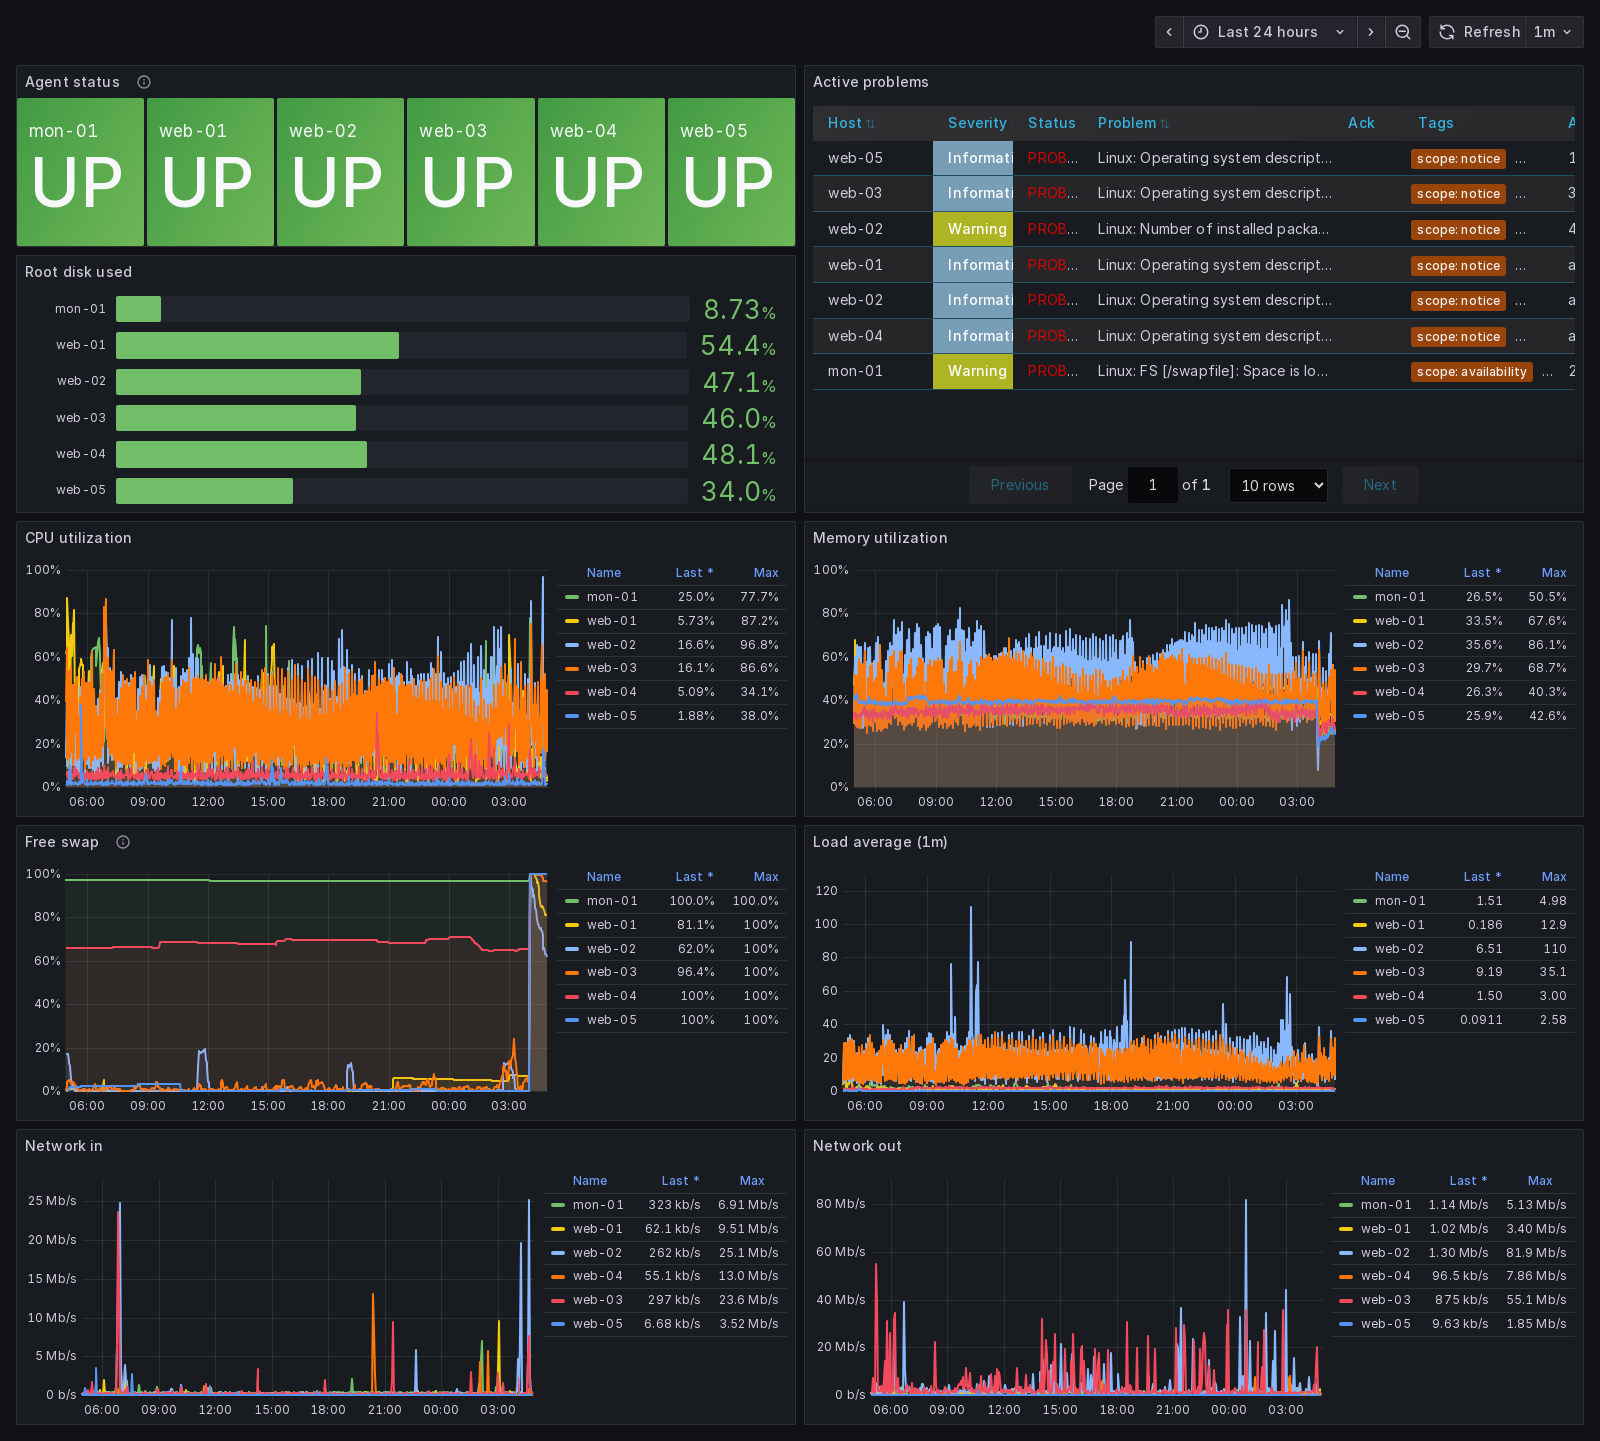
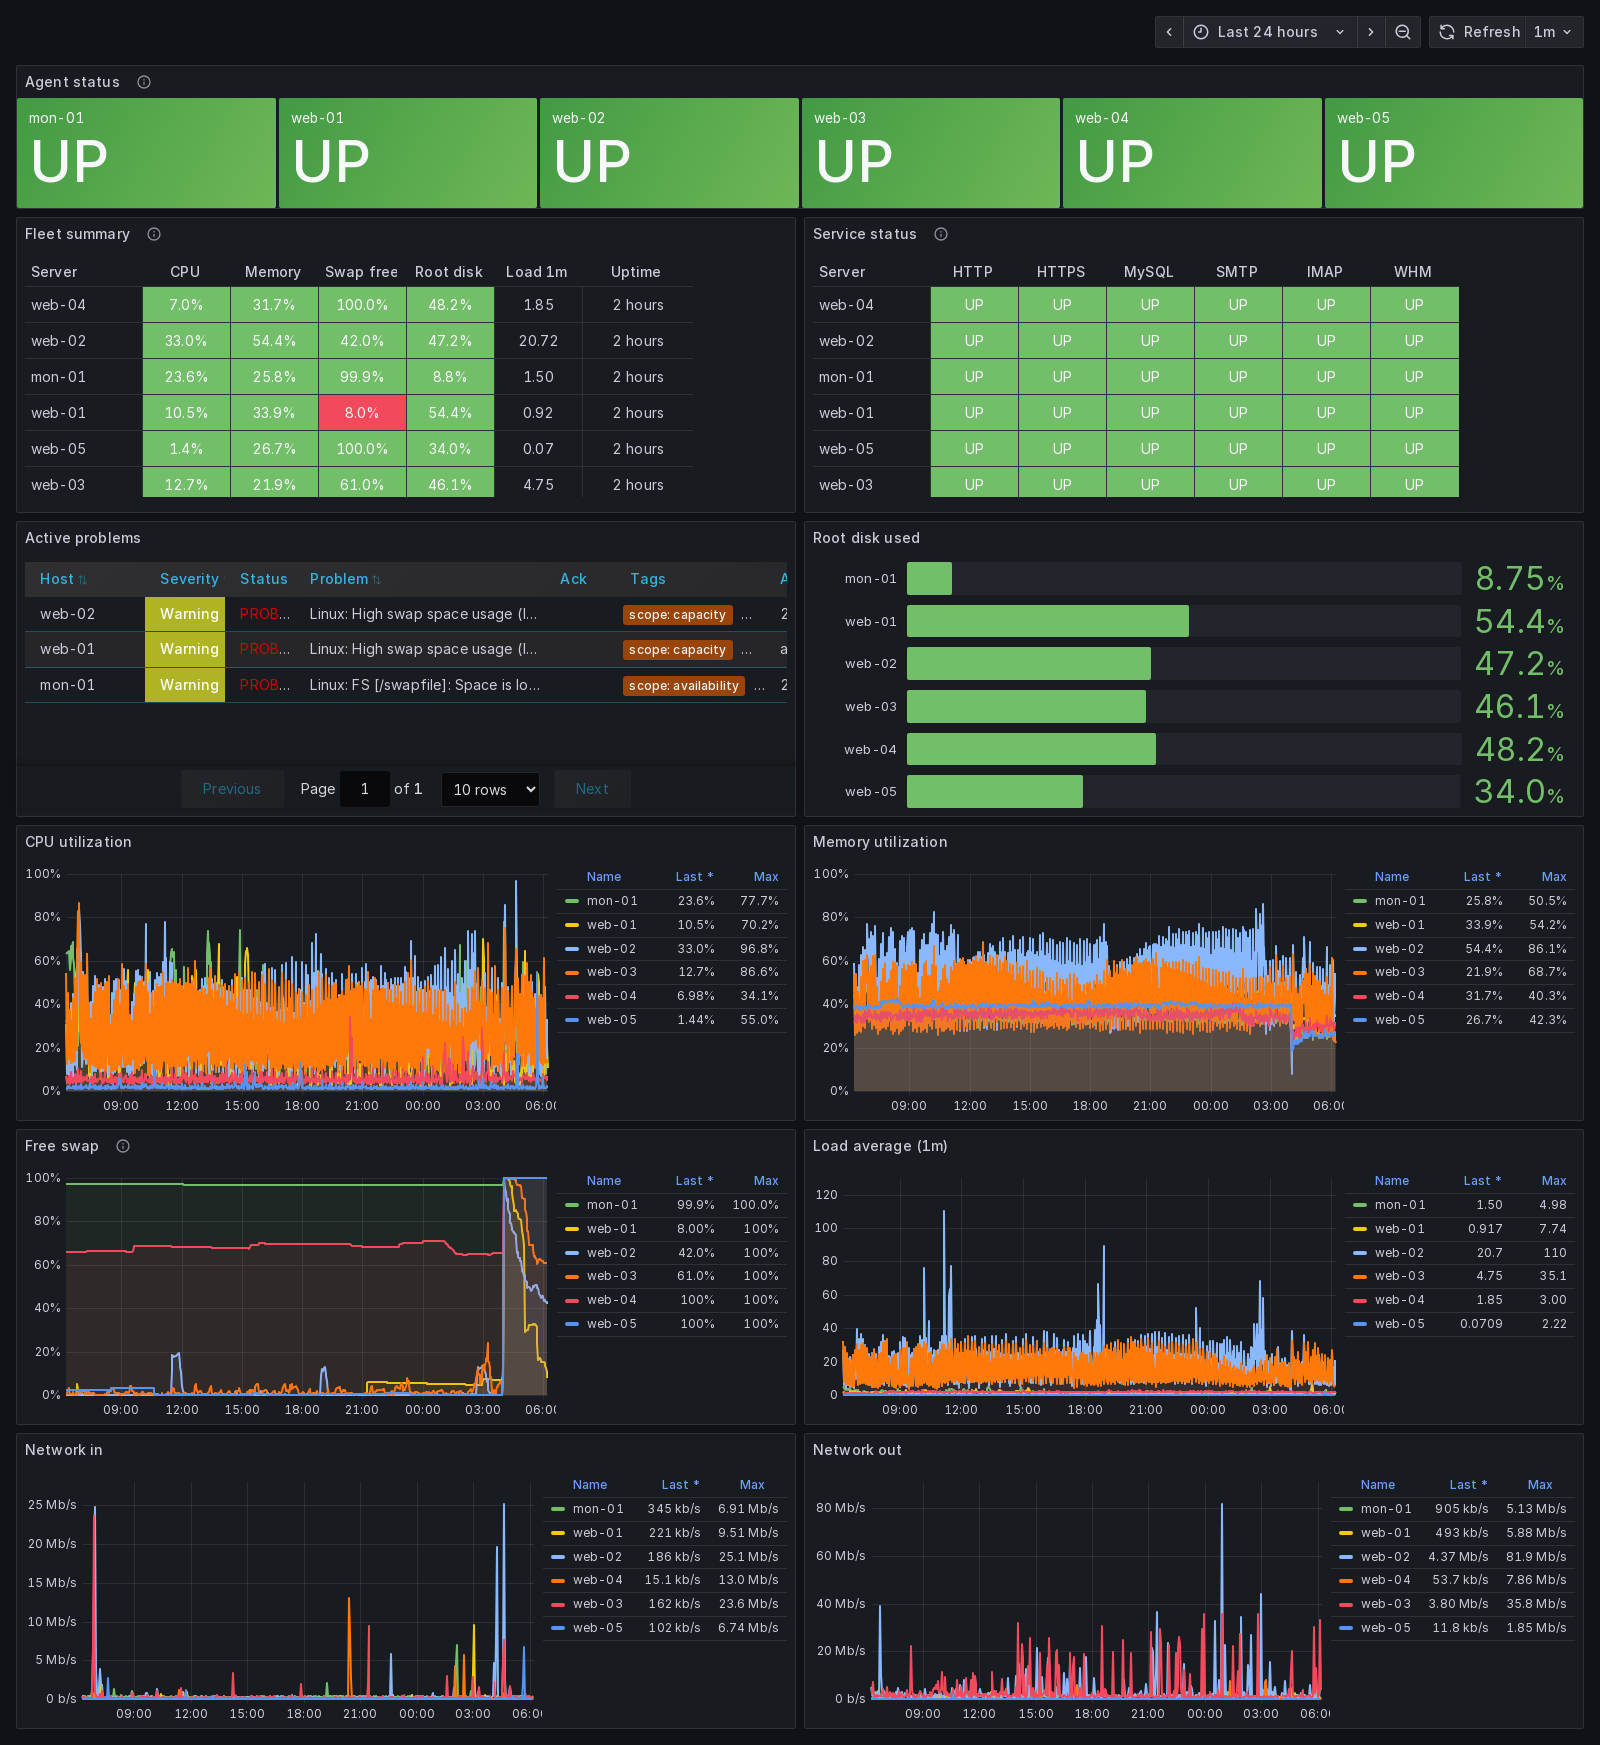
README: service checks, fleet summary, alert tuning, reboot resilience; new screenshots

diff --git a/README.md b/README.md
@@ -5,7 +5,7 @@ Production monitoring for a **fleet of 6 Linux web servers** (cPanel, about 1,00
 Designed and rolled out on a live production fleet in November 2026. Every server has reported continuously since.
 
 ![Grafana Fleet Overview: live data from all 6 production servers](docs/images/grafana-fleet.png)
-<sub>Grafana "Fleet Overview" over the last 24 hours: agent status, root disk, active problems, CPU, memory, swap, load and network for all 6 servers. Server names are anonymized.</sub>
+<sub>Grafana "Fleet Overview": agent status, a <b>fleet summary</b> table (CPU, memory, swap, disk, load, uptime per server), <b>service status</b> (web, HTTPS, MySQL, SMTP, IMAP, WHM), active problems and 24-hour trends. Server names are anonymized.</sub>
 
 ---
 
@@ -16,6 +16,7 @@ Designed and rolled out on a live production fleet in November 2026. Every serve
 | **Monitored servers** | 6 production servers, a mixed fleet: AlmaLinux 8, 9, 10 and CloudLinux 7, 9 |
 | **Stack** | Zabbix 7.0 LTS server + web, PostgreSQL 16, Grafana 12 with the Zabbix plugin, Podman |
 | **Agents** | Zabbix agent2 (EL8+) or classic agent (EL7), **active mode**, **TLS-PSK encrypted** |
+| **Service checks** | Web (80/443), MySQL, SMTP, IMAP, WHM on every server, every minute. DOWN for 3 minutes raises a problem (High/Average/Warning by service) |
 | **Onboarding** | Auto-registration: a new server joins the "Fleet" group with the Linux template, no clicking needed |
 | **Exposure** | None. The UIs listen on `127.0.0.1` only, behind an SSH tunnel. Port 10051 is allowlisted per agent IP |
 | **Footprint (measured)** | Agent ~18–36 MB RAM and ~0.2% CPU per server. The whole monitoring stack uses ~0.7 GB RAM |
@@ -61,6 +62,14 @@ flowchart LR
 - **Least privilege.** Grafana reads Zabbix through a **read-only API user** scoped to the Fleet group. A separate **read-only viewer** account exists for teammates and screenshots, and its write access was tested and blocked.
 - **No secrets in this repo or on screen.** Passwords and the PSK are generated on the server (`/opt/fleet-monitoring`, mode 600). The PSK is never printed, and a rotation step is built in (`configure-zabbix.sh`).
 
+## Alert tuning
+
+A monitoring system that cries wolf gets ignored, so the alerts were tuned after the first day:
+- **Muted** "installed packages changed" and "OS description changed". They fire on every routine update and drowned out real issues.
+- **Kept** "/etc/passwd has been changed" and "system name has changed". They're security-relevant: an unexpected account change is exactly what a SOC wants to see.
+- **Excluded** `/swapfile` from filesystem discovery. It was being reported as a "full disk".
+- **Service triggers** are severity-graded (web and database: High, mail: Average, control panel: Warning) and need 3 minutes of failure, so a brief restart doesn't raise a problem.
+
 ## Problems found and fixed during rollout
 
 | Problem | How it was found | Fix |
@@ -73,10 +82,12 @@ flowchart LR
 
 ## What it caught
 
+**It survived a real fleet-wide reboot.** On day 3 all 6 servers were rebooted for a kernel update. Zabbix recorded the OS change on each server, and the monitoring stack (Podman pod), the agents and the nftables allowlist **all came back by themselves**, with no manual action (`podman-restart`, systemd units).
+
 Within the **first hour**, Zabbix flagged **high swap usage on 4 of 6 servers**, the same memory pressure seen earlier during manual incident work. Since then it has also recorded:
 - one web server reaching a **load average of 110** with CPU at **97%** over a 24-hour window
 - swap on several servers sitting **below 5% free for most of the day**
-- a **fleet-wide OS change** (a kernel patch) on 5 servers within about 40 minutes, detected automatically
+- the fleet-wide kernel update and reboots, detected automatically as OS changes plus uptime resets
 
 ![Zabbix problems](docs/images/zabbix-problems.png)
 
@@ -91,6 +102,7 @@ Every script is idempotent and runs as root. The real IPs live in a private runb
 AGENT_IPS="203.0.113.10 203.0.113.11" bash server/install-monitoring-server.sh
 bash server/configure-zabbix.sh        # PSK rotation, PSK-only auto-registration, Fleet group/action, Admin password
 bash server/set-display-names.sh       # short display names
+bash server/setup-services.sh         # service checks (web/MySQL/mail/WHM) + alert-noise tuning
 bash server/setup-grafana.sh           # read-only Zabbix user, data source, Fleet Overview dashboard
 
 # 2. Each monitored server (on the monitoring server itself use ZBX_SERVER=127.0.0.1)
@@ -111,6 +123,7 @@ ssh -L 18080:127.0.0.1:18080 -L 13000:127.0.0.1:13000 <monitoring-server>
 | Script | Purpose |
 |---|---|
 | `server/status.sh` | Fleet status table: agent availability, last data, CPU %, memory %, open problems |
+| `server/setup-services.sh` | Service checks template, triggers, alert-noise tuning (idempotent) |
 | `server/create-viewer.sh` | Read-only "viewer" account in Zabbix and Grafana |
 | `server/firewall-lock.sh` | Re-apply or extend the 10051 allowlist |
 | `server/configure-zabbix.sh` | Also rotates the PSK when re-run (then update the agents) |
@@ -124,6 +137,7 @@ server/
   firewall-lock.sh               nftables allowlist for 10051, persisted via systemd
   allow-agent.sh                 add one agent IP
   set-display-names.sh           short display names
+  setup-services.sh              service checks template + triggers, alert-noise tuning
   setup-grafana.sh               read-only Zabbix user, Grafana data source, dashboard import
   create-viewer.sh               read-only viewer account
   status.sh                      fleet status table
@@ -137,7 +151,7 @@ docs/images/                     screenshots
 ## Roadmap
 
 - **Alert notifications** (Telegram or email) with severity routing and a runbook link per alert
-- **Website availability and SSL-expiry checks** for key client sites
+- **Website availability and SSL-expiry checks** for key client sites (HTTP checks from outside the server)
 - **Ops tools:** a Bash health check and a Python log analyzer (top IPs, failed logins, error spikes)
 - **SLA report:** monthly uptime and incidents per server from Zabbix data, exported to Excel
 - **An external watchdog** for the monitoring server itself, and pinned image versions
